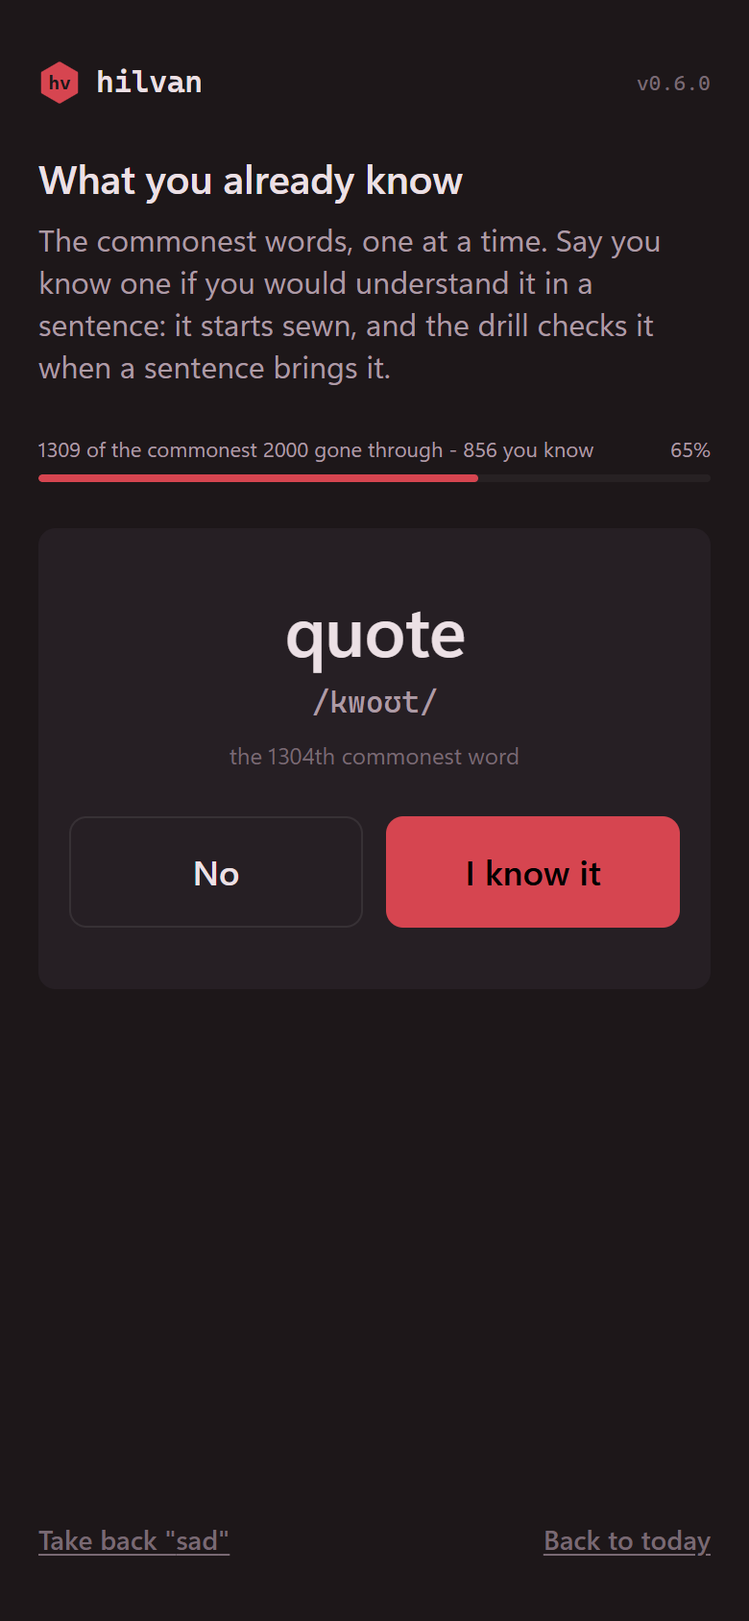
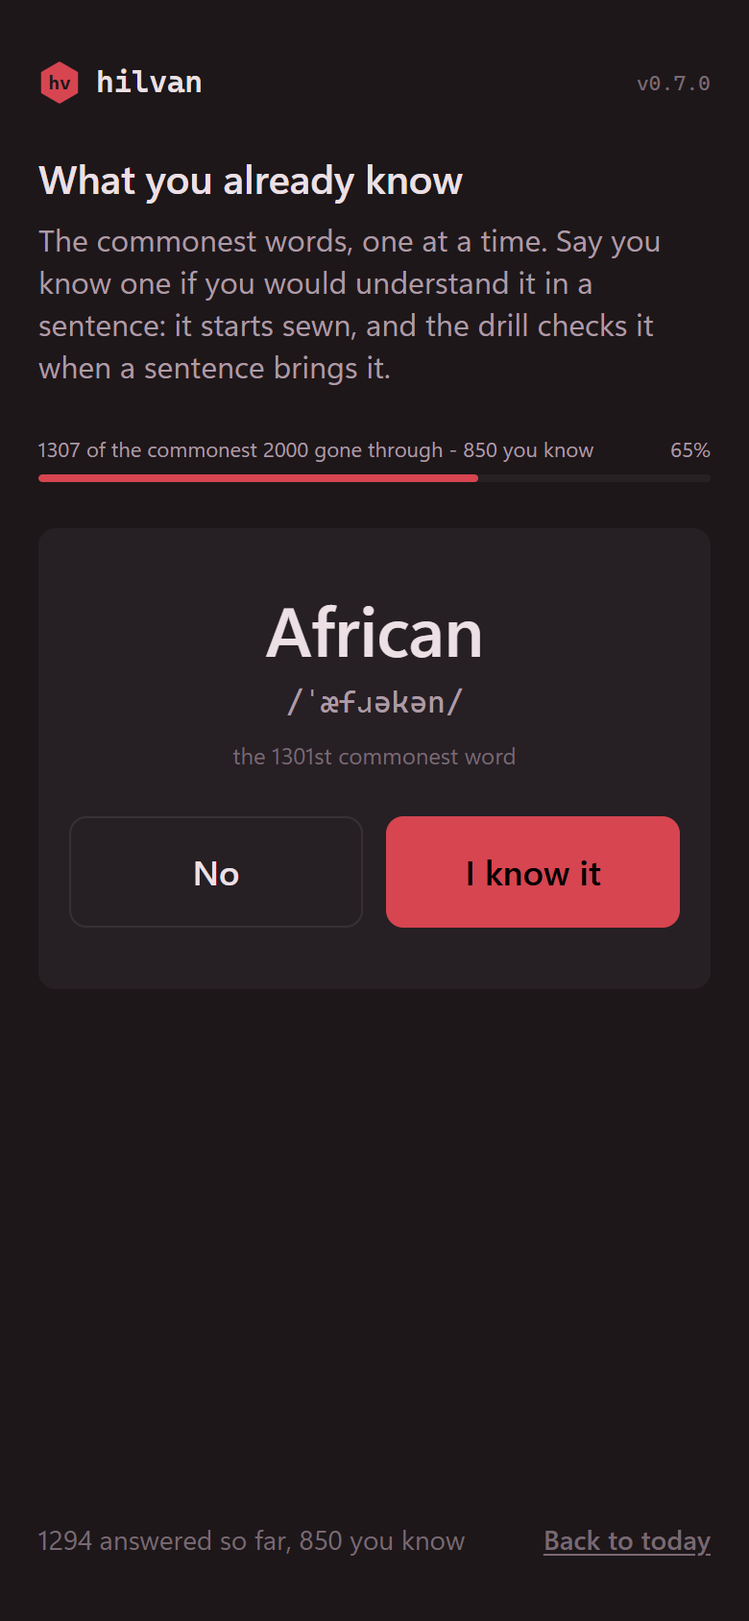
docs: explain breaks, leftovers and what slipped, and bump to 0.7.0

diff --git a/docs/site/src/content/docs/reference/api.md b/docs/site/src/content/docs/reference/api.md
@@ -88,7 +88,7 @@ Everything below requires a valid session when `HILVAN_PASSWORD_HASH` is set.
 
 ### `GET /api/today`
 
-Today's queue: formulas, then words. In each, everything due for review comes first, then the new ones the day has room for - at most one formula and ten words. Reviews are never crowded out by new material.
+Today's queue: formulas, then words. In each, everything due for review comes first, then the new ones the day has room for - at most one formula and ten words, fewer on a day that begins owing cards left over from earlier ones. Reviews are never crowded out by new material. On a [break](#breaks) the queue is empty.
 
 **Response** `200`:
 
@@ -119,7 +119,8 @@ Today's queue: formulas, then words. In each, everything due for review comes fi
       "stitch": "basted",
       "is_new": false,
       "due": "2026-09-03T09:00:00Z",
-      "pace": { "typical_ms": 3800, "last_ms": 9100, "answers": 6 }
+      "pace": { "typical_ms": 3800, "last_ms": 9100, "answers": 6 },
+      "stability": 8.06
     },
     {
       "kind": "word",
@@ -127,7 +128,8 @@ Today's queue: formulas, then words. In each, everything due for review comes fi
       "stitch": "new",
       "is_new": true,
       "due": "2026-09-03T09:00:00Z",
-      "pace": null
+      "pace": null,
+      "stability": 0
     }
   ],
   "reviewed_today": 1,
@@ -150,7 +152,11 @@ Today's queue: formulas, then words. In each, everything due for review comes fi
     "id": "be-present-negation",
     "name": "...",
     "waits_for": [{ "id": "be-present-statement", "name": "...", "stitch": "basted" }]
-  }
+  },
+  "room": { "debt": 3, "words": 7, "formulas": 1 },
+  "on_break": null,
+  "away_since": null,
+  "last_week": { "starts_on": "2026-08-24", "slipped": 2, "names": ["I am / you are", "home"] }
 }
 ```
 
@@ -165,6 +171,7 @@ Today's queue: formulas, then words. In each, everything due for review comes fi
 | `queue[].is_new` | boolean | Whether this has never been answered - a formula in this direction, or a word. |
 | `queue[].due` | string (RFC 3339) | When this item became due; for a new item, the time of the request. |
 | `queue[].pace` | object \| null | How fast this card usually comes; `null` until three timed answers. |
+| `queue[].stability` | number | How firmly it holds: FSRS's stability, the days until recall is predicted to fall to 90%. `0` for a card never answered. The app draws it as a bar on a scale of hours to a year, never as the number. |
 | `reviewed_today` | integer | Answers recorded since midnight UTC, formulas both ways and words. A word declared known in the [inventory](#inventory) is not an answer and is not counted. |
 | `counts.new` \| `counts.basted` \| `counts.sewn` | integer | How many formulas stand in each state, producing side. |
 | `progress.produce` \| `progress.recognise` | object | The same counts, one per direction. |
@@ -174,6 +181,16 @@ Today's queue: formulas, then words. In each, everything due for review comes fi
 | `words.declared` | integer | Words held on the learner's word alone: declared known and not asked since. Counted in the levels. |
 | `next` | object \| null | The first formula of the pack's sequence that has not started and is not opening today; `null` once every formula has. |
 | `next.waits_for` | array | Its [parents](/hilvan/reference/packs/#parents) not yet sewn, each with its `stitch`. Empty when it waits only for a day with room for a new formula. |
+| `room.debt` | integer | Cards the queue asks that had waited through a whole day they could have been answered on - come due before the start of yesterday, the breaks counted - as the day began. |
+| `room.words` | integer | New words the day opens, all told: ten, one fewer for every card of debt. Words started earlier the same day use up places. |
+| `room.formulas` | integer | New formulas the day opens: `1` while the debt leaves room for a word, `0` once it has taken all ten. |
+| `on_break` | object \| null | The [break](#breaks) going on - `id`, `starts_at`, `ends_at` (`null` until the learner is back). While there is one, `queue` is empty and `room` is all zeros. |
+| `away_since` | string (RFC 3339) \| null | The last answer, when it was three days ago or more, no break covers the time since, and something is waiting: an absence the learner can count as a break with [`POST /api/breaks/away`](#post-apibreaksaway). |
+| `last_week` | object \| null | What slipped last week (`starts_on` its Monday, `slipped` how many, `names` the first three), while this week has had no answer yet; `null` when nothing slipped. See [`GET /api/drift`](#get-apidrift). |
+
+#### What the day began owing
+
+A card the learner could have answered on an earlier day and did not takes the place of a new one: a day that begins owing three cards opens seven new words, one that owes ten or more opens none, and the formula of the day with them. The debt is counted as the day began - a card answered since midnight is set back to how it stood then, its earlier answers played through the scheduler again - so clearing it does not open another round the same day. A card that came due less than a day before the day began is not owed: it may have come due an hour after yesterday's sitting. A word counts from when a sentence that holds it was first met, not from a due date it had before that.
 
 #### Parents
 
@@ -200,6 +217,10 @@ A formula's recognising side opens only once the formula has been produced at le
 | `answers` | integer | How many timed answers the median rests on - at least three. |
 
 It is **reported and never scheduled on**: the same answer given in 0.9s and in 45s produces the same next due date.
+
+#### Breaks
+
+A break stops the schedule's clock. An interval runs only in time outside a break, so a card whose interval spans one comes back that much later - all of them, not only those that fell due during it, which would leave the weeks after a fortnight away at twice the load. Each card keeps the due date FSRS gave it; the breaks are counted when the queue is read. The memory model is not told anything: the next answer counts every day since the last one, holiday included.
 
 ### `GET /api/formulas/{id}`
 
@@ -371,7 +392,9 @@ Only the card in the direction named is graded: answering `"recognise"` leaves t
   "interval_days": 1,
   "pace": { "typical_ms": 3800, "last_ms": 4200, "answers": 6 },
   "rating": "hard",
-  "words": ["en:ready"]
+  "words": ["en:ready"],
+  "stability": 2.3,
+  "stability_before": 3.1
 }
 ```
 
@@ -383,6 +406,9 @@ Only the card in the direction named is graded: answering `"recognise"` leaves t
 | `due` | string (RFC 3339) | When the formula comes back in this direction. |
 | `interval_days` | integer | Days between now and `due`. |
 | `pace` | object \| null | How this answer compared with the usual; `null` until three timed answers. |
+| `stability` \| `stability_before` | number | How firmly the card holds after the answer and held before it, in days: what the bar on the card moves between. |
+
+An answer given during a [break](#breaks) ends it.
 
 **Response** `404` when `{id}` names no formula:
 
@@ -452,9 +478,58 @@ Records an answer to a word and reschedules it through FSRS. A word has one card
 { "rating": "good", "duration_ms": 2400 }
 ```
 
-**Response** `200`: the same shape as a formula's review - `stitch`, `due`, `interval_days`, `pace`, `rating`, `words`. The first answer fixes the word's anchor.
+**Response** `200`: the same shape as a formula's review - `stitch`, `due`, `interval_days`, `pace`, `rating`, `words`, `stability`, `stability_before`. The first answer fixes the word's anchor.
 
 **Response** `404` when `{id}` names no word.
+
+## Breaks
+
+### `POST /api/breaks`
+
+Starts a break now. **Request**: `{ "until": "2026-11-01T00:00:00Z" }`, or `{}` for a break that lasts until the learner is back. **Response** `201`: the break - `{ "id": 3, "starts_at": "...", "ends_at": null }`. `409` while another break is going on; `422` for an `until` that is not after now.
+
+### `POST /api/breaks/away`
+
+Counts the time since the last answer as a break that ended now - the absence `away_since` on [`GET /api/today`](#get-apitoday) offers. **Response** `201`: the break. `409` when there is no such absence: an answer within the last three days, or a break already reaching past the last answer.
+
+### `POST /api/breaks/{id}/end`
+
+The learner is back: ends the break now. **Response** `200`: the break, with its `ends_at`. `404` for no such break, `409` for one that is not going on. An answer given during a break ends it the same way.
+
+### `DELETE /api/breaks/{id}`
+
+Removes a break as if it had never been taken - what it held comes due again where FSRS put it. **Response** `204`; `404` for no such break.
+
+## What slipped
+
+### `GET /api/drift`
+
+What slipped this week and last week, Monday to Sunday, UTC. A slip is an asked *again* on a card whose answer before it was not one and was given at least a day earlier: the shape that held and would not come, the word met last week and gone, the word declared known and not known after all. Learning steps within one day are not slips.
+
+**Response** `200`:
+
+```json
+{
+  "this_week": { "starts_on": "2026-10-12", "slips": [] },
+  "last_week": {
+    "starts_on": "2026-10-05",
+    "slips": [
+      {
+        "kind": "word",
+        "id": "en:house",
+        "name": "house",
+        "direction": null,
+        "gloss": "...",
+        "at": "2026-10-07T18:52:10Z",
+        "stitch": "sewn",
+        "declared": true
+      }
+    ]
+  }
+}
+```
+
+Each card is listed once a week, at its first slip. `direction` says which way round a formula slipped; `stitch` is where it stands now; `declared` is true when the answer it slipped from was the learner's declaration in the inventory.
 
 ## Own words
 

diff --git a/docs/site/src/content/docs/reference/learner-model.md b/docs/site/src/content/docs/reference/learner-model.md
@@ -3,7 +3,7 @@ title: The learner model file
 description: Everything hilvan knows about its learner, as one JSON file - what is in it, the published schema, export, import, snapshots of past days and the demo learner.
 ---
 
-Everything the tutor knows about its learner fits in one JSON file: every card that has been answered with every answer behind it and the turns typed for it, the learner's own words, the voices they chose and their answers in the [inventory](/hilvan/guides/your-first-week/#what-you-already-know). It moves a learner to another stand, keeps a copy that does not need hilvan to read, and tells the model as it stood on any past day.
+Everything the tutor knows about its learner fits in one JSON file: every card that has been answered with every answer behind it and the turns typed for it, the learner's own words, the voices they chose, their answers in the [inventory](/hilvan/guides/your-first-week/#what-you-already-know) and the [breaks](/hilvan/guides/your-first-week/#a-break) they took. It moves a learner to another stand, keeps a copy that does not need hilvan to read, and tells the model as it stood on any past day.
 
 The material is not in it. Packs are files of their own and the lexicon is built into the binary; the model names the packs it was learnt on and keys everything on what outlives a reload of a pack - a formula's id, a word's lemma, a sentence's text.
 
@@ -11,19 +11,21 @@ The material is not in it. Packs are files of their own and the lexicon is built
 
 The format is published as a JSON Schema (draft 2020-12):
 
-**[`https://lacodda.github.io/hilvan/schema/learner-model-1.json`](/hilvan/schema/learner-model-1.json)**
+**[`https://lacodda.github.io/hilvan/schema/learner-model-2.json`](/hilvan/schema/learner-model-2.json)**
 
 Every file names it in `$schema`, and every file hilvan writes follows it - the test suite checks each export against it. What the schema refuses, `hilvan import` refuses too; import also checks what a schema cannot say: nothing listed twice, and every language the file names is one it lists. A change that would make a reader of this format misread a file is a new format, with a schema of its own.
+
+Format 2 (from v0.7.0) adds `breaks`. hilvan reads only the format it writes, so a file of format 1 is refused; its schema stays published at [`learner-model-1.json`](/hilvan/schema/learner-model-1.json) for anything that reads such files.
 
 ## What is in it
 
 ```json
 {
-  "$schema": "https://lacodda.github.io/hilvan/schema/learner-model-1.json",
-  "format": 1,
+  "$schema": "https://lacodda.github.io/hilvan/schema/learner-model-2.json",
+  "format": 2,
   "exported_at": "2026-10-12T15:00:00Z",
   "as_of": "2026-10-12T15:00:00Z",
-  "app": { "name": "hilvan", "version": "0.6.0" },
+  "app": { "name": "hilvan", "version": "0.7.0" },
   "languages": [{ "code": "ru", "native": true }, { "code": "en", "native": false }],
   "packs": [{ "id": "en-from-ru", "version": 5 }],
   "cards": [
@@ -46,7 +48,8 @@ Every file names it in `$schema`, and every file hilvan writes follows it - the 
   "anchors": [{ "word": "en:home", "sentence": { "language": "en", "text": "I am at home." } }],
   "own_words": [{ "language": "en", "kind": "verb", "native": "<its meaning>", "target": "cook", "created_at": "2026-09-20T19:10:00Z" }],
   "voices": [],
-  "inventory": [{ "word": "en:house", "known": true, "at": "2026-09-18T18:52:04Z" }]
+  "inventory": [{ "word": "en:house", "known": true, "at": "2026-09-18T18:52:04Z" }],
+  "breaks": [{ "from": "2026-09-25T19:30:00Z", "until": "2026-09-29T07:00:00Z" }]
 }
 ```
 
@@ -59,8 +62,9 @@ Every file names it in `$schema`, and every file hilvan writes follows it - the 
 | `attempts` | The turns typed for a said formula: what was asked, the answer it was read against, what was typed and what failed - `formula`, `order` or `word`. |
 | `anchors` | The sentence each word is heard in, by its text. |
 | `inventory` | Every answer of the inventory, yes and no. |
+| `breaks` | The breaks taken, earliest first: the stretches the schedule's clock stood still. `until` is `null` for one still going on. They do not overlap, only the last may lack an end, and none holds an asked answer - one may start at the moment of the last answer, which is how an absence is counted afterwards. |
 
-A card's `state`, `stability`, `difficulty`, `due`, `reps` and `lapses` are what its reviews leave when played through FSRS in order; they are in the file so a reader does not have to replay to know them.
+A card's `state`, `stability`, `difficulty`, `due`, `reps` and `lapses` are what its reviews leave when played through FSRS in order; they are in the file so a reader does not have to replay to know them. `due` is FSRS's own: when a card actually comes back is that, moved by the breaks its interval spans.
 
 ## Export
 
@@ -80,13 +84,13 @@ hilvan load-pack packs/en-from-ru/pack.toml   # the material first
 hilvan import me.json
 ```
 
-An import **replaces** the learner model: every card, answer, anchor, own word, voice and inventory answer goes, and the file's take their place, in one transaction. Before that, the model being replaced is written to a file beside the database - `hilvan-model-before-import-<moment>.json`, in the data volume on a stand - so an import is never the end of anything. Every formula and word of the loaded packs that the file never answered gets a new card.
+An import **replaces** the learner model: every card, answer, anchor, own word, voice, inventory answer and break goes, and the file's take their place, in one transaction. Before that, the model being replaced is written to a file beside the database - `hilvan-model-before-import-<moment>.json`, in the data volume on a stand - so an import is never the end of anything. Every formula and word of the loaded packs that the file never answered gets a new card.
 
 What does not fit is said rather than lost: an anchor whose sentence no loaded pack shows is dropped (the word is heard in the first sentence it is met in until it is answered again), and a pack the model was learnt on that is not loaded here is named - its cards are kept and wait for it.
 
 ## Snapshots
 
-The model as it stood at a moment is not stored anywhere: it is the review log up to that moment, played through the scheduler again. Any moment since the first answer can be asked about, by `hilvan export --at`, by `GET /api/model?at=`, and on the **Then and now** screen, which sets a day of your choosing beside today. A snapshot carries the voices chosen now - a choice keeps no date.
+The model as it stood at a moment is not stored anywhere: it is the review log up to that moment, played through the scheduler again. Any moment since the first answer can be asked about, by `hilvan export --at`, by `GET /api/model?at=`, and on the **Then and now** screen, which sets a day of your choosing beside today. A snapshot carries the voices chosen now - a choice keeps no date - and the breaks begun by then, one that had not ended by then as still going on.
 
 ## The demo learner
 
@@ -95,8 +99,8 @@ hilvan load-pack packs/en-from-ru/pack.toml
 hilvan load-demo
 ```
 
-A fictional learner, three weeks into English from Russian on the shipped pack: an inventory of the commonest thousand words on the first evening and three hundred more later, a sitting most evenings, typed turns with the slips a learner makes, four words of their own. It is what the screenshots in these docs show, and a quick way to look around a new stand. It is moved in time when loaded, so its last evening of study is yesterday's.
+A fictional learner, three weeks into English from Russian on the shipped pack: an inventory of the commonest thousand words on the first evening and three hundred more later, a sitting most evenings, typed turns with the slips a learner makes, four words of their own, a long weekend away taken as a break, and three missed evenings counted as one afterwards. It is what the screenshots in these docs show, and a quick way to look around a new stand. It is moved in time when loaded, so its last evening of study is yesterday's.
 
-`load-demo` refuses a tutor that already holds a learner - an answer, an own word, a chosen voice or an inventory answer: a demo is never what is meant over someone's own history. Give it a database of its own (`HILVAN_DATABASE_URL`).
+`load-demo` refuses a tutor that already holds a learner - an answer, an own word, a chosen voice, an inventory answer or a break: a demo is never what is meant over someone's own history. Give it a database of its own (`HILVAN_DATABASE_URL`).
 
 The demo is not written by hand: it is three weeks of the tutor's own code, driven by a test (`cargo test --test demo -- --ignored`), and every release checks that it still follows the schema, still learns from the pack that ships, and that every card in it is what its answers leave.

diff --git a/docs/adr/0009-breaks-leftovers-and-what-slipped.md b/docs/adr/0009-breaks-leftovers-and-what-slipped.md
@@ -1,0 +1,39 @@
+# 0009 · Breaks stop the clock, leftovers take new places, and what slipped is named
+
+Date: 2026-10-15. Status: accepted.
+
+## Context
+
+v0.7.0 is about the schedule surviving a life rather than only discipline. FSRS, like every spaced-repetition scheduler, assumes a learner who comes every day. The learner this tutor has does not, and the failure that follows is well known: a few days away, a wall of reviews on the way back, and the tutor abandoned.
+
+**A holiday turns into a debt.** Two weeks away leave two weeks of reviews due on the first evening home - more than a sitting holds, on the evening least likely to have one.
+
+**New material does not know about the debt.** The day's one new formula and ten new words open whatever the reviews look like, so a learner catching up gets a full day's new load on top, and the reviews it brings arrive in a week, when the catching up has not finished.
+
+**Forgetting is invisible.** A card answered *again* goes back into the queue and is never mentioned: the learner cannot tell a week where three sewn formulas came loose from a week where nothing did.
+
+**Stability is a number nobody reads.** The card knows how long it holds - FSRS's stability, in days - and shows nothing of it, or at best a figure like 17.3 that says nothing at a glance.
+
+## Decision
+
+**A break stops the schedule's clock.** A break is a row: a start, and an end or none (until the learner says they are back). An interval runs only in time outside breaks, so a card whose interval spans a break comes back later by the part of the break it spans; a card due before a break started is not touched by it. The card row keeps the due FSRS gave it - the row stays the last step of its answers played through the scheduler, which the snapshots of ADR 0008 rest on - and the breaks are applied when the queue is read, by one pure function (`scheduling::comes_back`). FSRS is told the truth: the next answer counts every day since the last one, holiday included.
+
+Every interval that spans a break moves, not only the ones that fell due during it. Moving only those - spreading them over as many days after the break - would put the break's reviews on top of the reviews of the days after it: twice the load for as long as the learner was away, the avalanche spread thinner rather than gone.
+
+**An absence can be counted as a break afterwards.** When the last answer was three days ago or more, no break reaches past it and something is waiting, Today offers to count the time since as a break: one tap writes a break from the last answer to now. Two days - a weekend - are not offered; what came due over them is a sitting's worth and should be owed. It is the same row as a break taken ahead, and the schedule cannot tell them apart. A break holds no asked answer: one cannot be counted back past the last answer, and an answer given during a break ends it.
+
+**Leftovers take new places.** A card the queue asks that came due - the breaks counted - before the start of yesterday, and so waited through a whole day it could have been answered on, is owed. Each owed card takes one of the day's ten new words; when they have taken all ten, the day's new formula waits too, since a new shape brings its sentences' words and there would be no room for them. The debt is counted as the day began - a card answered since midnight is set back to how it stood then by playing its earlier answers through the scheduler - so paying it does not open another round the same day. A day of grace keeps a learner who studies every evening out of debt for the clock drifting past the sitting. A word is owed from when a sentence holding it was first met, not from a due date it had before (a word declared known has one from the inventory).
+
+**A slip is an again after a hold.** A slip is an asked *again* on a card whose answer before it was not *again* and was given at least a day earlier (FSRS's `elapsed_days ≥ 1`). It catches a sewn formula that came loose, a basted word that had come on an earlier day, and a word declared known that is not; it leaves out learning steps within a day and a card that never came at all. It is read off the review log with a window function - no stored flag. Slips are listed by week, Monday to Sunday UTC; last week's open Today while the current week has no asked answer yet, which is also what closes the note. Nothing records that the note was shown.
+
+**Stability is a bar.** The card draws it on a logarithmic scale from an hour to two years, cut into hours, days, weeks, months and a year and more, and says the band in words. After an answer the bar shows the stretch it grew by, or the stretch it lost.
+
+**The learner model file is format 2.** It carries the breaks; format 1 is refused. Schema `learner-model-2.json` is published beside `learner-model-1.json`, which stays for readers of older files.
+
+## Consequences
+
+- Every place that asks "is it due" asks it through the breaks: today's formulas, today's words, the debt. A place that read `card.due` alone would bring a card back during a break.
+- A snapshot carries the breaks begun by then, one that had not ended as still going on.
+- Breaks are left out of the memory model on purpose. Fitting FSRS to this learner later sees long gaps after breaks as long gaps, which they were.
+- The room for new material now depends on the past day; a test that drives the tutor through several days (the demo) changes when the rule does, and is made again.
+- What slipped is only what was caught: a card never asked during a silent week did not slip on record, however much it faded. The debt line is what speaks for those.

diff --git a/docs/site/src/content/docs/guides/your-first-week.md b/docs/site/src/content/docs/guides/your-first-week.md
@@ -1,6 +1,6 @@
 ---
 title: Your first week
-description: Loading the pack, signing in, what a sitting looks like, and what to expect as new formulas turn into basted ones and basted ones into sewn.
+description: Loading the pack, signing in, what a sitting looks like, what happens when you miss days or go away, and what to expect as new formulas turn into basted ones and basted ones into sewn.
 ---
 
 This is what actually happens once the tutor has material in it: loading a pack, signing in, and the shape of a sitting from the first day through the first week.
@@ -81,9 +81,33 @@ The sentence it was first met in stays its sentence - you will hear the word in 
 
 Under **Your words** on Today, three bars show the levels - the commonest 1,000, 2,000 and 5,000 words of English - and how many of yours are sewn in each. They start near zero and fill slowly; they are measured against the language, not against the pack.
 
+### How firmly it holds
+
+Under the name of a card you have answered before runs a thin bar: how long it holds, on a scale of hours, days, weeks, months and a year, with a hairline where each begins. It is FSRS's stability - the time until you would recall it nine times out of ten - drawn rather than printed, and said in words underneath: "Holds for weeks". After you grade it the bar shows what the answer did: the stretch it grew by bright, or the stretch it lost as a warning.
+
 ### How long it took
 
 Under the turn counter, a card that has been drilled a few times says how fast it usually comes - "usually 3.8s" - and after you grade it, whether this answer was quicker or slower than that. It is there to be noticed, nothing more: the schedule is not affected by how long you took. A formula that arrives after eight seconds of assembly is still on its way to being yours, and the number is how you watch that happen.
+
+## Missed days
+
+A day you miss leaves its cards waiting, and they are asked first when you come back. What they also do is take places from the new material: every card left over from before yesterday takes one of the day's ten new words, and once all ten are taken the new formula waits too. Today says so - "3 cards were left over from earlier days, so 7 new words open today instead of 10" - and the next formula's line says it is waiting for a day that begins with fewer left over.
+
+The count is made as the day begins, so clearing the leftovers does not open another round of new material the same day: a day of catching up stays a day of catching up, and the next one starts fresh. A card that came due less than a day ago is never counted - it may have come due an hour after yesterday's sitting.
+
+## A break
+
+**Take a break**, in the footer of Today, stops the schedule's clock while you are away: a holiday, a busy fortnight. Give the day you will be back, or leave it empty and tap **I'm back** on Today when you are. While the break lasts Today asks for nothing, and when it ends everything picks up where it was - the same cards in the same order at the same pace - instead of a fortnight's reviews landing on the first evening home. An answer given during a break ends it.
+
+Memory does not stop for a holiday, and the tutor does not pretend it does: the first answer after a break counts every day since the one before, so some cards come back loose. That is what the first days back are for.
+
+If you were away without saying so - three days or more since your last answer, with cards waiting - Today offers to count it as a break: **Count it as a break** stops the clock from your last answer to now, what was owed is owed no longer, and the toast that confirms it has an **Undo**. A weekend is not offered: what came due over two days is a sitting's worth, and it should be done.
+
+## What slipped
+
+A card slips when you had it - you came up with it on an earlier day - and then could not: the formula that was sewn and would not come, the word met last week and gone, the word you said you knew in the inventory and did not. Learning something new in a sitting, failing it and getting it right ten minutes later is not slipping.
+
+**What slipped**, in the footer of Today, lists this week's and last week's, each with where it stands now. On the first sitting of a week - until your first answer of it - a note comes up by itself with last week's: how many slipped and the first few by name. There is nothing to do about them; they come back sooner on their own. A formula that slips week after week is worth a second look at its explanation.
 
 ## New, basted, sewn
 

diff --git a/docs/site/src/content/docs/concepts/how-hilvan-teaches.md b/docs/site/src/content/docs/concepts/how-hilvan-teaches.md
@@ -29,6 +29,14 @@ Every formula sits in one of three states - new, basted, sewn, the basting-stitc
 
 A learner never starts from nothing, and a schedule that treats *house* as new in the third week wastes the sitting it spends on it. From v0.6.0 an inventory walks the commonest words and asks of each whether you know it. A yes is a declaration, not an answer: the word starts sewn, with the schedule an easy first answer would give it, and the first sentence that brings it is its test. Declarations are kept apart from answers everywhere answers are counted - the day's tally, the day's new words, and the fitting of the memory model to you when that comes - because "I know it" is worth something, but it is not recall under a prompt ([ADR 0008](https://github.com/lacodda/hilvan/blob/main/docs/adr/0008-declared-knowledge-and-the-learner-model-file.md)).
 
+### A schedule that lives with you - built
+
+A spaced-repetition schedule assumes you come every day, and most people who stop using one stop the same way: a few missed days, a wall of reviews on the way back, a second look at the wall, and no third. From v0.7.0 the schedule bends where a life does.
+
+A day that begins with cards left over from earlier days opens less that is new - one new word fewer for each leftover, and no new formula once they have taken all ten places - so the way back is reviews, not reviews and a full day's new material on top. A break stops the schedule's clock: nothing comes due while you are away, and on the way back everything picks up where it was rather than all at once. An absence you did not announce can be counted as a break afterwards, in one tap. Memory itself is not paused - the memory model is told every day that passed, holiday included - only the tutor's claim on your time is ([ADR 0009](https://github.com/lacodda/hilvan/blob/main/docs/adr/0009-breaks-leftovers-and-what-slipped.md)).
+
+What you had and lost is named: each week's slips - a card you came up with on one day and could not on a later one - are listed, and the first sitting of a week opens with last week's. How firmly each card holds is on the card as a bar from hours to a year, not as a number of days.
+
 ### Two directions, counted apart
 
 Understanding a sentence and producing one are different skills, and recognition always runs ahead. From v0.2.0 each formula is scheduled twice - saying it, and understanding it - so the two are never averaged into a number that describes neither. The Today screen shows both columns, and the gap between them is the point: you will understand more than you can say, and seeing by how much is more useful than a single figure that hides it.

diff --git a/README.md b/README.md
@@ -67,7 +67,7 @@ Everything comes from the environment; a `.env` file is read first, and `.env.ex
 
 ## Status
 
-**v0.6.0**: the learner model in your hands. An inventory of the commonest words starts you where you are, kept apart from real answers; the model exports and imports as one file with a published JSON Schema; any past day is the answers up to it, replayed; and `hilvan load-demo` loads a fictional learner three weeks in. Thirty formulas for a Russian speaker, every sentence heard, on a phone. See the [CHANGELOG](https://github.com/lacodda/hilvan/blob/main/CHANGELOG.md) for what landed in each version, and the [ADRs](https://github.com/lacodda/hilvan/tree/main/docs/adr) for the architecture.
+**v0.7.0**: a schedule that lives with you. A break stops its clock and an absence can be counted as one afterwards, so coming back is not a wall of reviews; cards left over from earlier days take the places of new ones; what slipped is listed by week and opens the first sitting of the next; and each card shows how firmly it holds as a bar. Thirty formulas for a Russian speaker, an inventory of the words you know, the learner model as one file, every sentence heard, on a phone. See the [CHANGELOG](https://github.com/lacodda/hilvan/blob/main/CHANGELOG.md) for what landed in each version, and the [ADRs](https://github.com/lacodda/hilvan/tree/main/docs/adr) for the architecture.
 
 ## Documentation
 

diff --git a/CONTRIBUTING.md b/CONTRIBUTING.md
@@ -25,4 +25,4 @@ Run it when the pack renames what the demo learnt or the learner model changes s
 
 ## The learner model format
 
-The schema of the learner model file is `docs/site/public/schema/learner-model-1.json`, published with the docs. A change to the model that a reader of format 1 would misread is a new format and a new schema file beside it; the tests hold every export to the schema.
+The schema of the learner model file is `docs/site/public/schema/learner-model-2.json`, published with the docs; the schemas of earlier formats stay beside it. A change to the model that a reader of the current format would misread is a new format and a new schema file beside it; the tests hold every export to the schema.
